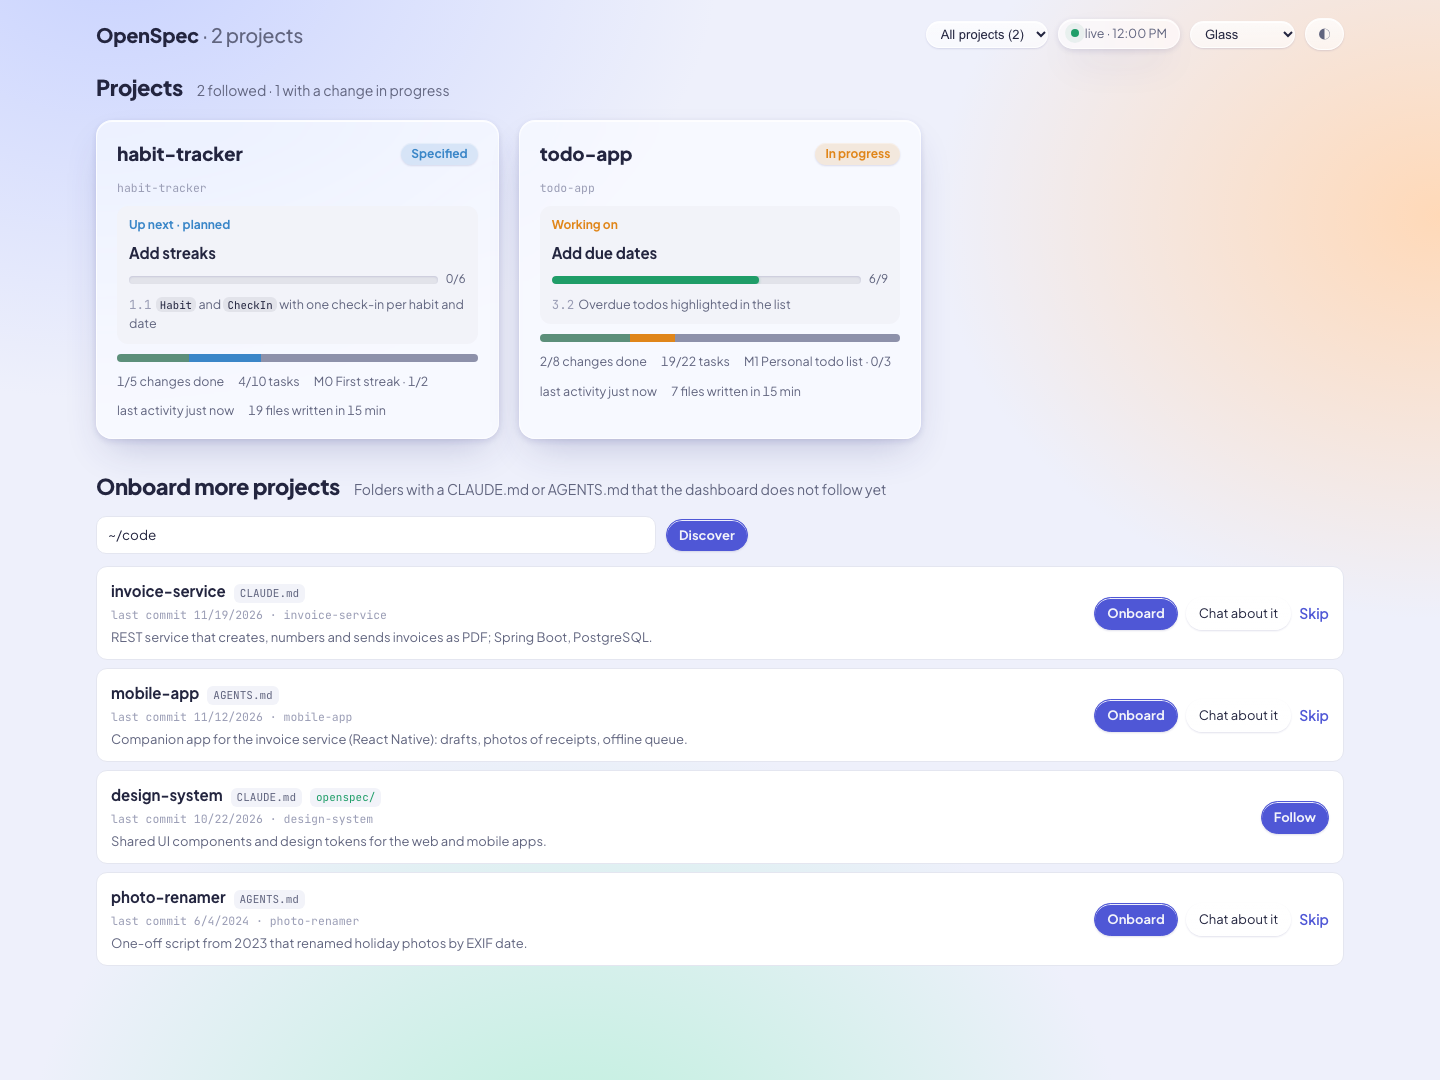
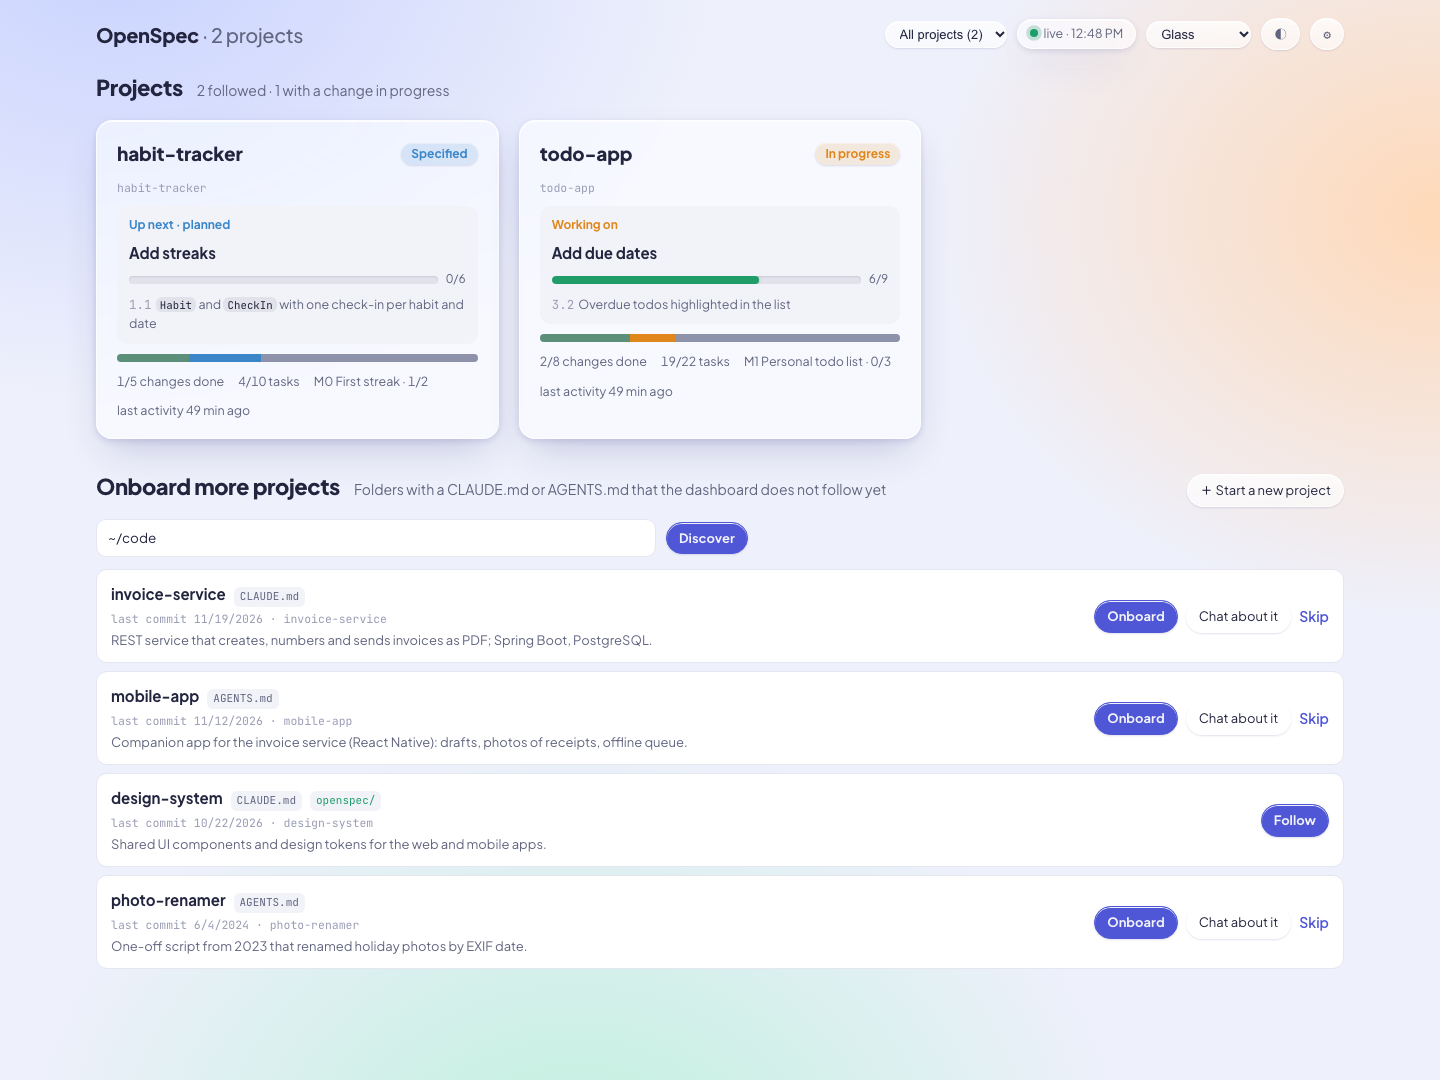
Docs: projects overview screenshot with "Start a new project"

diff --git a/docs/user-guide.md b/docs/user-guide.md
@@ -251,7 +251,8 @@ or **Skip → next candidate** to move on to the next one.
 
 ### Start a new project
 
-**＋ Start a new project** (next to the heading) brainstorms a project that does not exist yet. Choose the folder it
+**＋ Start a new project** (on the right of the "Onboard more projects" heading in the screenshot above) brainstorms a
+project that does not exist yet. Choose the folder it
 goes into and describe the idea; Claude asks about the problem, the users, the scope of a first version, the stack
 and the quality gate, and proposes a first milestone of tickets. Once you agree it shows the project as a card.
 **Create project…** asks for the folder name; **Create and set up** creates the folder and lets Claude write
